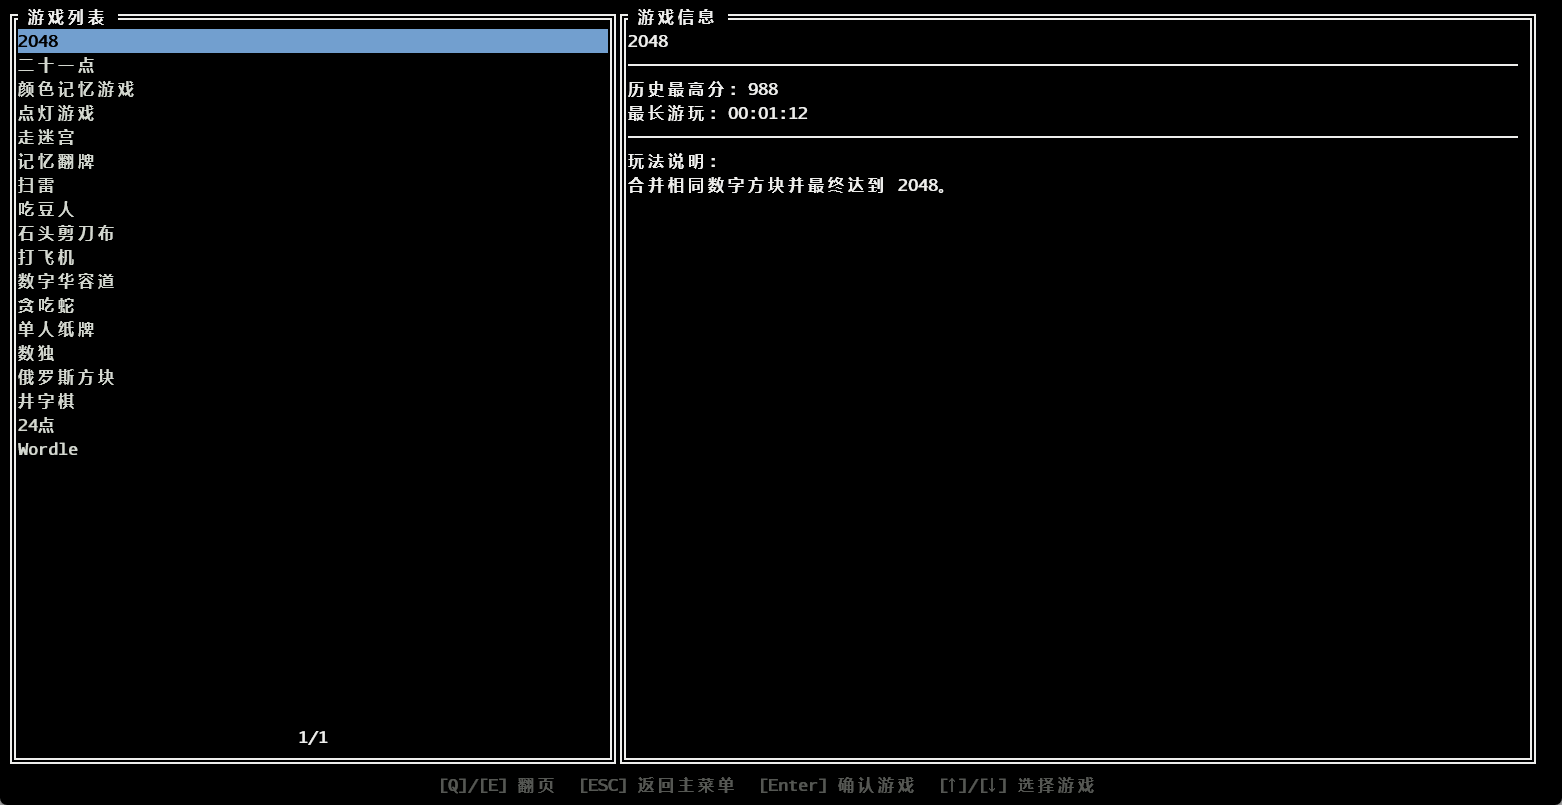
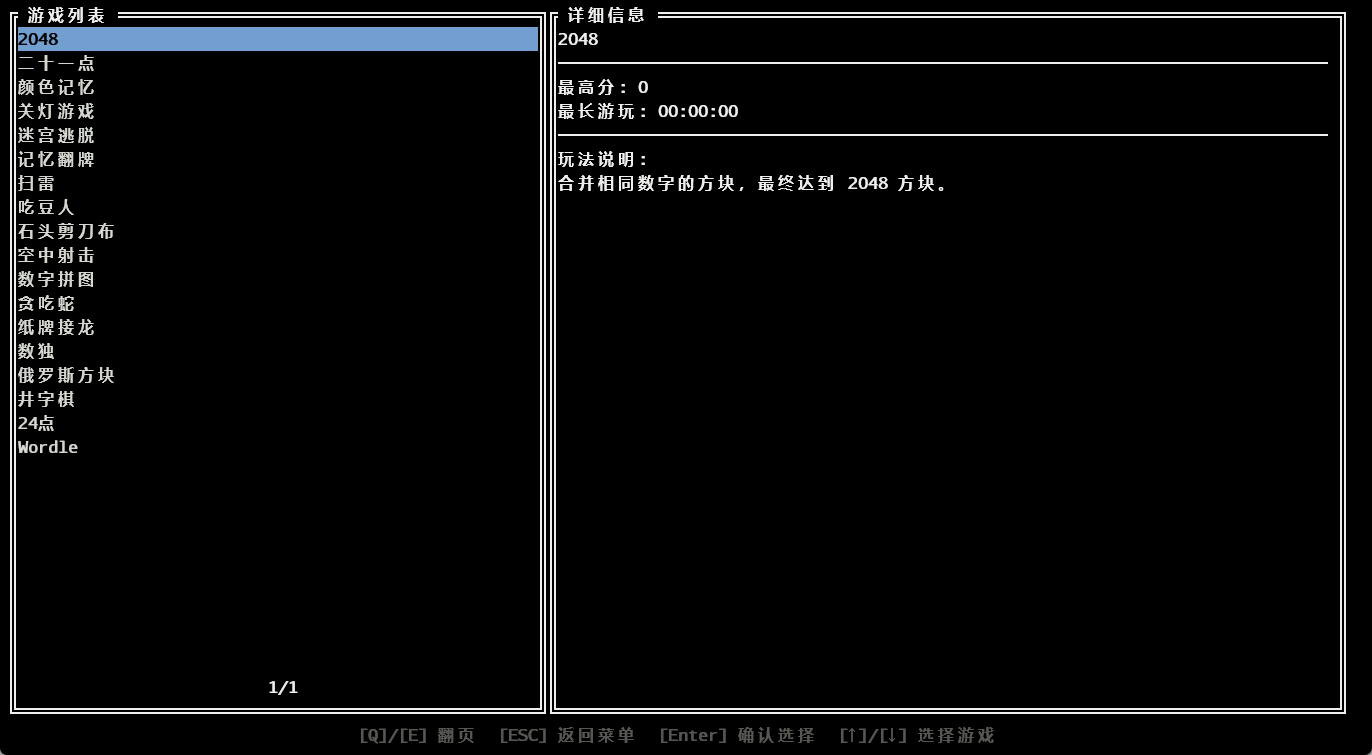
更新README，并修复打飞机的读取功能帧读取错误的bug

Changed region(s): [[0.0, 0.0, 1.0, 1.0]]

diff --git a/README-i18n/README-ja-jp.md b/README-i18n/README-ja-jp.md
@@ -27,15 +27,16 @@ Windows、Linux、MacOS
 
 ## 実装済みゲーム
 
-- 2048  
-- ブラックジャック  
-- カラーメモリーゲーム  
-- ライツアウト  
-- 迷路脱出  
-- メモリーフリップ  
-- マインスイーパー  
-- パックマン
-- じゃんけん  
+- [2048](#2048)
+- [ブラックジャック](#ブラックジャック)
+- [カラーメモリーゲーム](#カラーメモリーゲーム)
+- [ライツアウト](#ライツアウト)
+- [迷路脱出](#迷路脱出)
+- [メモリーフリップ](#メモリーフリップ)
+- [マインスイーパー](#マインスイーパー)
+- [パックマン](#パックマン)
+- [じゃんけん](#じゃんけん)
+- [エアシューター](#エアシューター)
 
 ## 対応言語
 
@@ -249,7 +250,11 @@ cargo build --release
 
 ### じゃんけん
 
-![石头剪刀布](./image/rockpaperscissors-ja-jp.png)
+![じゃんけん](./image/rockpaperscissors-ja-jp.png)
+
+### エアシューター
+
+![エアシューター](./image/airshooter-ja-jp.png)
 
 ## 本プロジェクトを応援する
 

diff --git a/README.md b/README.md
@@ -27,15 +27,16 @@ Windows, Linux, MacOS
 
 ## Implemented Games
 
-- 2048  
-- Blackjack  
-- Color Memory  
-- Lights Out  
-- Maze Escape  
-- Memory Flip  
-- Minesweeper
-- Pac-Man
-- Rock Paper Scissors  
+- [2048](#2048)
+- [Blackjack](#blackjack)
+- [Color Memory](#color-memory)
+- [Lights Out](#lights-out)
+- [Maze Escape](#maze-escape)
+- [Memory Flip](#memory-flip)
+- [Minesweeper](#minesweeper)
+- [Pac-Man](#pac-man)
+- [Rock Paper Scissors](#rock-paper-scissors)
+- [Air Shooter](#air-shooter)
 
 ## Language Support
 
@@ -250,6 +251,10 @@ cargo build --release
 ### Rock Paper Scissors
 
 ![Rock Paper Scissors](./README-i18n/image/rockpaperscissors.png)
+
+### Air Shooter
+
+![Air Shooter](./README-i18n/image/airshooter.png)
 
 ## Support This Project
 

diff --git a/README-i18n/README-zh-tw.md b/README-i18n/README-zh-tw.md
@@ -27,15 +27,16 @@ Windows，Linux，MacOS
 
 ## 實現的遊戲
 
-- 2048
-- 二十一點
-- 顏色記憶遊戲
-- 點燈遊戲
-- 走迷宮
-- 記憶翻牌
-- 踩地雷
-- 小精靈
-- 石頭剪刀布
+- [2048](#2048)
+- [二十一點](#二十一點)
+- [顏色記憶遊戲](#顏色記憶遊戲)
+- [點燈遊戲](#點燈遊戲)
+- [走迷宮](#走迷宮)
+- [記憶翻牌](#記憶翻牌)
+- [踩地雷](#踩地雷)
+- [小精靈](#小精靈)
+- [石頭剪刀布](#石頭剪刀布)
+- [空中射擊](#空中射擊)
 
 ## 語言支援
 
@@ -250,6 +251,10 @@ cargo build --release
 ### 石頭剪刀布
 
 ![石頭剪刀布](./image/rockpaperscissors-zh-tw.png)
+
+### 空中射擊
+
+![空中射擊](./image/airshooter-zh-tw.png)
 
 ## 支援本專案
 

diff --git a/README-i18n/README-zh-hk-mo.md b/README-i18n/README-zh-hk-mo.md
@@ -27,15 +27,16 @@ Windows，Linux，MacOS
 
 ## 實現的遊戲
 
-- 2048
-- 二十一點
-- 顏色記憶遊戲
-- 點燈遊戲
-- 走迷宮
-- 記憶翻牌
-- 掃雷
-- 小精靈
-- 石頭剪刀布
+- [2048](#2048)
+- [二十一點](#二十一點)
+- [顏色記憶遊戲](#顏色記憶遊戲)
+- [點燈遊戲](#點燈遊戲)
+- [走迷宮](#走迷宮)
+- [記憶翻牌](#記憶翻牌)
+- [掃雷](#掃雷)
+- [小精靈](#小精靈)
+- [石頭剪刀布](#石頭剪刀布)
+- [空中射擊](#空中射擊)
 
 ## 語言支援
 
@@ -250,6 +251,10 @@ cargo build --release
 ### 石頭剪刀布
 
 ![石頭剪刀布](./image/rockpaperscissors-zh-hk-mo.png)
+
+### 空中射擊
+
+![空中射擊](./image/airshooter-zh-hk-mo.png)
 
 ## 支援本項目
 

diff --git a/README-i18n/README-zh-cn.md b/README-i18n/README-zh-cn.md
@@ -27,15 +27,16 @@ Windows，Linux，MacOS
 
 ## 实现的游戏
 
-- 2048
-- 二十一点
-- 颜色记忆游戏
-- 点灯游戏
-- 走迷宫
-- 记忆翻牌
-- 扫雷
-- 吃豆人
-- 石头剪刀布
+- [2048](#2048)
+- [二十一点](#二十一点)
+- [颜色记忆游戏](#颜色记忆游戏)
+- [点灯游戏](#点灯游戏)
+- [走迷宫](#走迷宫)
+- [记忆翻牌](#记忆翻牌)
+- [扫雷](#扫雷)
+- [吃豆人](#吃豆人)
+- [石头剪刀布](#石头剪刀布)
+- [空中射击](#空中射击)
 
 ## 语言支持
 
@@ -250,6 +251,10 @@ cargo build --release
 ### 石头剪刀布
 
 ![石头剪刀布](./image/rockpaperscissors-zh-cn.png)
+
+### 空中射击
+
+![空中射击](./image/airshooter-zh-cn.png)
 
 ## 支持本项目
 
